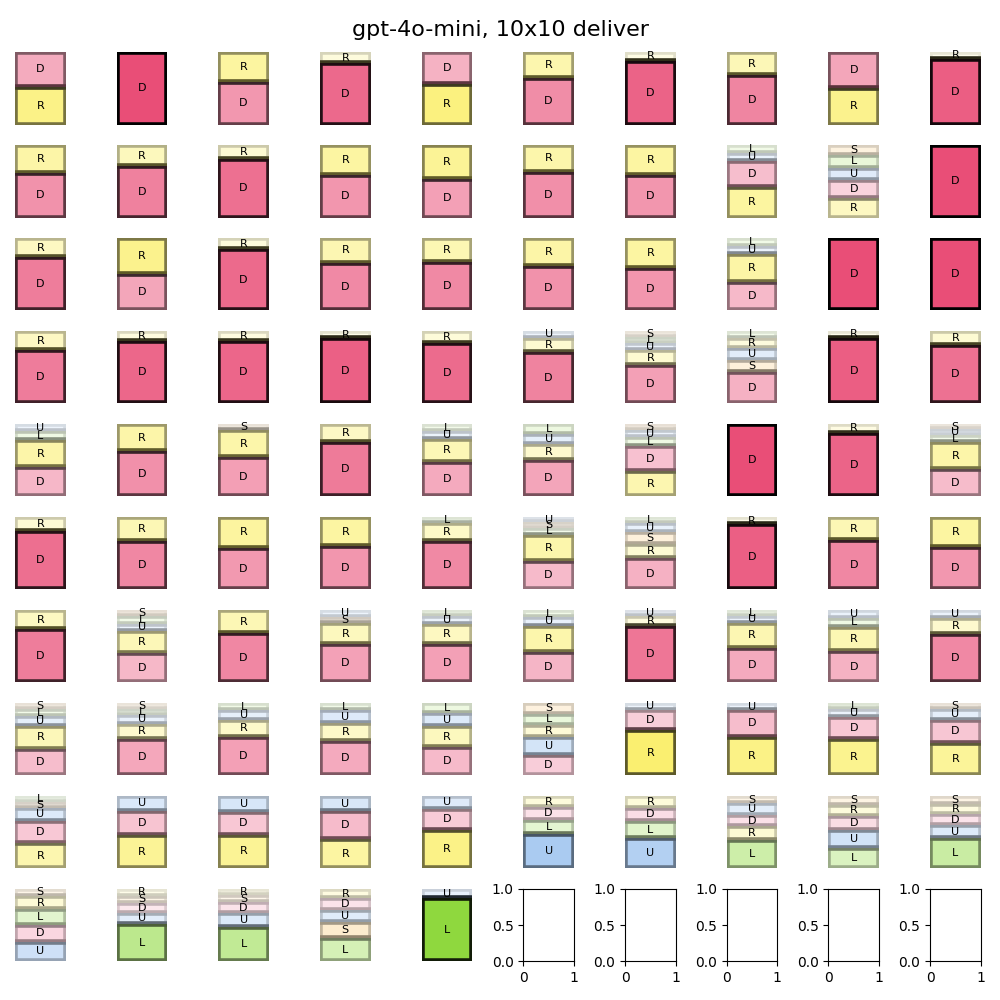
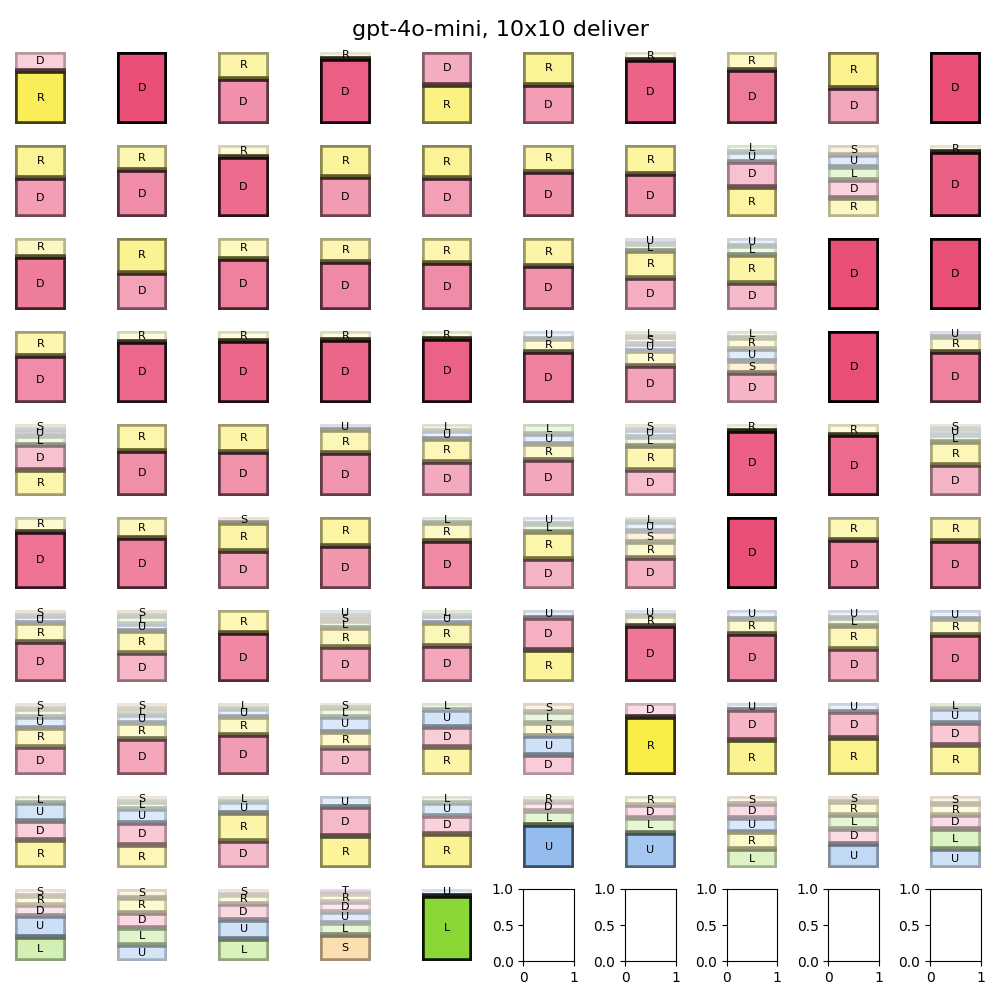
fix heatmap script and more tests

diff --git a/agents/heatmap.js b/agents/heatmap.js
@@ -288,14 +288,15 @@ function getWeightedRandomIndex(weights) {
     random -= weights[i];
   }
 }
-const TIMER = 150;
+const TIMER = 80;
 const heatmapJson = [];
 async function agentLoop() {
   while (!rawOnMap) {
     await client.timer(100);
   }
-  for (let i = rawOnMap.height - 1; i >= 0; i--) {
-    for (let j = rawOnMap.width; j >= 0; j--) {
+  // FOR TOMORROW FIX HERE
+  for (let i = 0; i < rawOnMap.height; i++) {
+    for (let j = 0; j < rawOnMap.width; j++) {
       var response = await knowno_OpenAI(getRawPrompt(), POSSIBLE_ACTIONS);
       if (
         !heatmapJson.some(
@@ -321,12 +322,11 @@ async function agentLoop() {
       } else if (i % 2 == 1) {
         console.log("Moving horizontally");
         await client.move("left");
-        console.log(heatmapJson);
       }
       await client.timer(TIMER);
     }
     console.log("Moving vertically");
-    await client.move("up");
+    await client.move("down");
     await client.timer(TIMER);
   }
   heatmapJson.push({
@@ -342,11 +342,22 @@ async function agentLoop() {
   heatmapJson.push({
     h: rawOnMap.height,
   });
-  c.push({
-    goal: `(${Math.abs(rawOnParcelsSensing[0].y - (rawOnMap.height - 1))},${
-      rawOnParcelsSensing[0].x
-    })`,
-  });
+  if (GOAL == "pickup") {
+    heatmapJson.push({
+      goal: `(${Math.abs(rawOnParcelsSensing[0].y - (rawOnMap.height - 1))},${
+        rawOnParcelsSensing[0].x
+      })`,
+    });
+  } else if (GOAL == "deliver") {
+    // find the delivery tile
+    const deliveryTile = rawOnMap.tiles.find((tile) => tile.delivery == true);
+    heatmapJson.push({
+      goal: `(${Math.abs(deliveryTile.y - (rawOnMap.height - 1))},${
+        deliveryTile.x
+      })`,
+    });
+  }
+
   // save the heatmapJson to a file
   fs.writeFileSync("heatmap.json", JSON.stringify(heatmapJson));
   // end the program

diff --git a/server/Deliveroo.js/levels/maps/bench.js b/server/Deliveroo.js/levels/maps/bench.js
@@ -1,14 +1,14 @@
 module.exports = [
-  [1, 1, 1, 1, 1, 1, 1, 1, 1, 1],
-  [1, 1, 1, 1, 1, 1, 1, 1, 1, 1],
-  [1, 1, 1, 1, 1, 1, 1, 1, 1, 1],
-  [1, 1, 1, 1, 1, 1, 1, 1, 1, 1],
-  [1, 1, 1, 1, 1, 1, 1, 1, 1, 1],
-  [1, 1, 1, 1, 1, 1, 1, 1, 1, 1],
-  [1, 1, 1, 1, 1, 1, 1, 1, 1, 1],
-  [1, 1, 1, 1, 1, 1, 1, 1, 1, 1],
-  [1, 1, 1, 1, 1, 1, 1, 1, 1, 1],
-  [1, 1, 1, 1, 1, 1, 1, 1, 1, 2],
+  [1, 1, 1, 1, 1, 1, 1, 1, 1, 1, 1],
+  [1, 1, 1, 1, 1, 1, 1, 1, 1, 1, 1],
+  [1, 1, 1, 1, 1, 1, 1, 1, 1, 1, 1],
+  [1, 1, 1, 1, 1, 1, 1, 1, 1, 1, 1],
+  [1, 1, 1, 1, 1, 1, 1, 1, 1, 1, 1],
+  [1, 1, 1, 1, 1, 1, 1, 1, 1, 1, 1],
+  [1, 1, 1, 1, 1, 1, 1, 1, 1, 1, 1],
+  [1, 1, 1, 1, 1, 1, 1, 1, 1, 1, 1],
+  [1, 1, 1, 1, 1, 1, 1, 1, 1, 1, 1],
+  [1, 1, 1, 1, 1, 1, 1, 1, 1, 1, 2],
 ];
 
 // module.exports = [

diff --git a/data_and_results/heatmap/heatmap.py b/data_and_results/heatmap/heatmap.py
@@ -10,9 +10,11 @@ colors = {
     "S": "#f5a623"   # orange
 }
 
-def create_square_pie(ax, values, color):
+def create_square_pie(ax, values, color, x, y):
     total = sum(value for _, _, value in values)
     current_pos = 0
+    print(x, y)
+    print(values)
 
     for label, _, value in values:
         sector_size = value / total
@@ -44,13 +46,12 @@ def create_table_of_square_pies(data_list, width, length, color, title):
         axes = axes.flatten()
     elif length == 1 or width == 1:
         axes = [axes]  # Ensure it's always iterable
-
+    count = 0
     for i, data in enumerate(data_list):
         values = data['values']
-        print()
-        print(data['x'], data['y'])
-        print(values)
-        create_square_pie(axes[i], values, color)
+        create_square_pie(axes[i], values, color, data["x"], data["y"])
+        count += 1
+    print(count)
 
     fig.suptitle(title, fontsize=16)
     plt.tight_layout()
